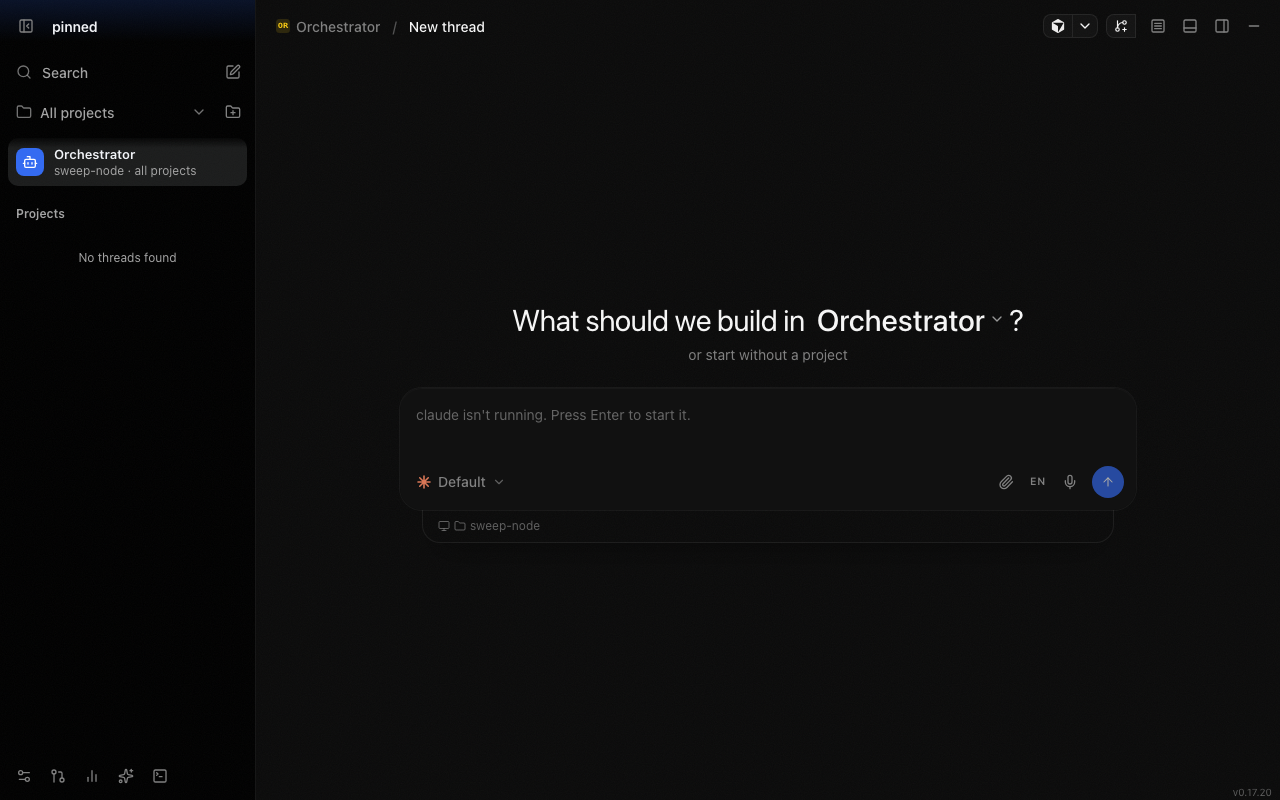
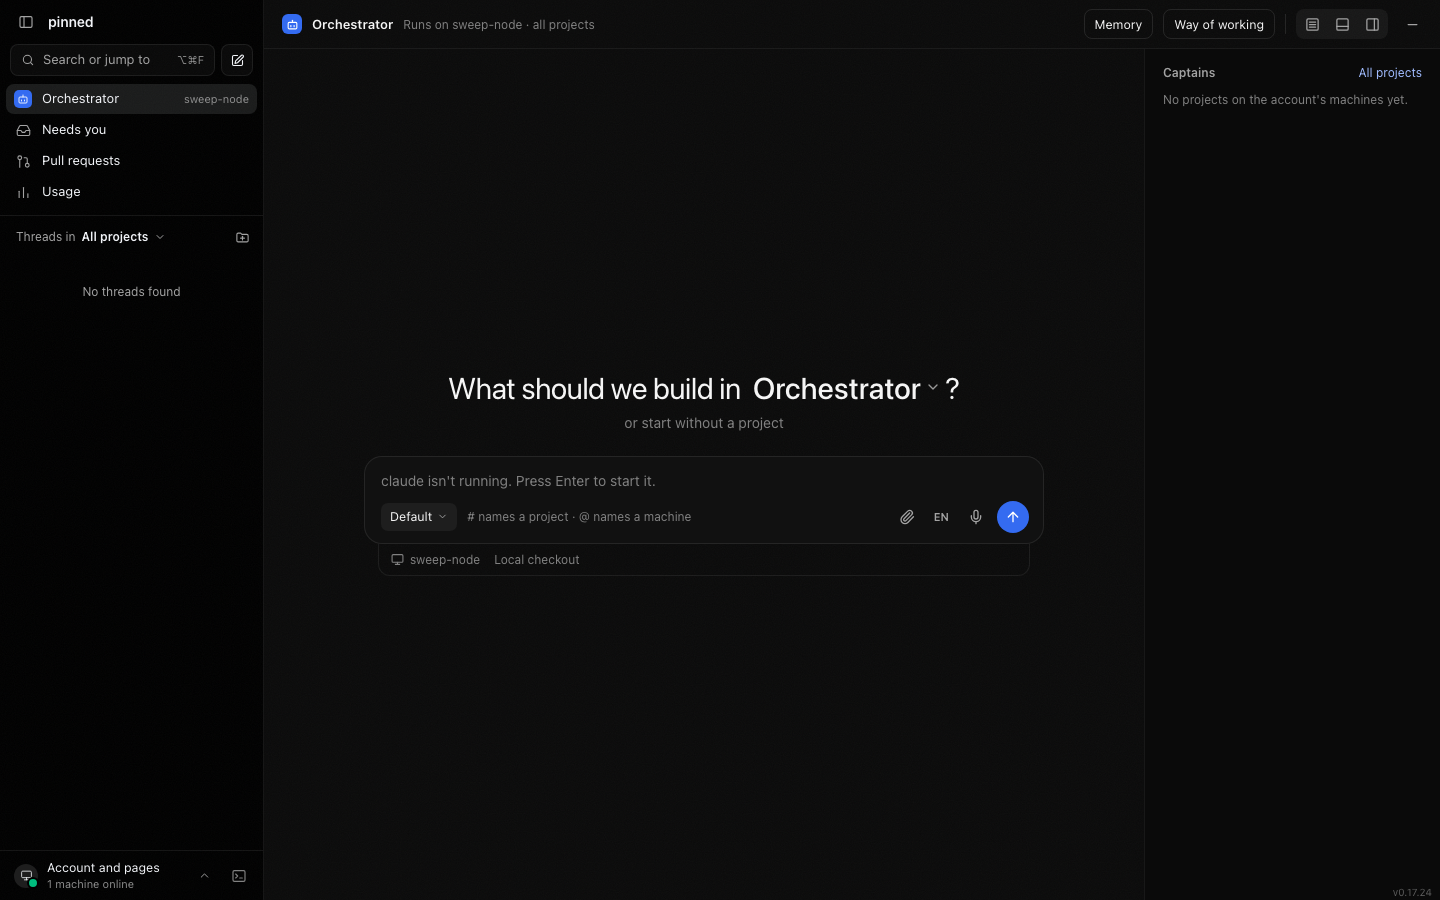
web sweep: run the last four sweeps on the new shell
global-chat, waiting-asks, session-marks and surface-approvals were moved
to the new markup but never run. Three failed on stale steps:

- global-chat read a field its state no longer has, expected a finished
  turn that asked to count as waiting (it is an offer since waitingKindOf
  and offerOf), and expected a project head to count workers only. The head
  counts every thread that works, as the Sidebar board draws it.
- session-marks tapped the desktop's sidebar toggle on a phone, where Back
  goes to Threads.
- surface-approvals closed Settings with a call no phone user has. It
  taps Settings' Back, which goes to More and its tab bar.

All four pass on a fresh stack. Their screenshots are the new design's.

diff --git a/scripts/web-sweep/global-chat.js b/scripts/web-sweep/global-chat.js
@@ -323,8 +323,8 @@ const sendText = (page, text) => page.evaluate((t) => {
       return view.status === "needs-input" && !view.interrupted;
     }, keys.pinned));
     s = await page.evaluate(state);
-    console.log("idle notice:", JSON.stringify({ head: s.waitingHead, rows: s.waitingRows }));
-    check(s.waitingHead === null && s.waitingRows.length === 0, `the idle notice waits on Felipe: ${JSON.stringify(s.waitingRows)}`);
+    console.log("idle notice:", JSON.stringify({ needsYou: s.needsYou }));
+    check(s.needsYou === "0", `the idle notice waits on Felipe: Needs you counts ${s.needsYou}`);
 
     await page.evaluate((k) => activate(tabByKey(k)), keys.site);
     await sendText(page, "/question");
@@ -339,26 +339,28 @@ const sendText = (page, text) => page.evaluate((t) => {
     check(!s.threadRows.includes(globalKey), "the global tab joined the thread list");
     check(await page.evaluate((k) => tabByKey(k).view.status === "needs-input" && !tabByKey(k).view.interrupted, keys.pinned), "the pinned Captain left its idle notice");
 
-    // A turn that ends asking the user still waits once Claude Code's idle notice follows it, as
-    // monorepo-photoshot's "PR #254" did, and so does a failure.
+    // A turn that ends asking the user blocks nobody: once Claude Code's idle notice follows it the
+    // question stays on the thread and lists as a quiet card, outside the count. A failure waits.
     await page.evaluate((k) => activate(tabByKey(k)), keys.pinned);
     await sendText(page, "asks");
-    await waitFor("the asked question", () => page.evaluate(() => document.querySelector('#side-nav [data-nav="needs-you"] .count').textContent === "2"));
+    await waitFor("the asked question", () => page.evaluate((k) => tabByKey(k).view.question === "Should I cut the release now?", keys.pinned));
     await waitFor("the idle notice after the question", () => page.evaluate((k) => tabByKey(k).view.status === "needs-input", keys.pinned));
     const asked = await page.evaluate((k) => tabByKey(k).view, keys.pinned);
     console.log("asked:", JSON.stringify({ status: asked.status, interrupted: asked.interrupted ?? false, message: asked.message, question: asked.question }));
     check(!asked.interrupted && asked.question === "Should I cut the release now?", "the pinned Captain's question did not survive its idle notice");
-    check(await page.evaluate(() => document.querySelector('#side-nav [data-nav="needs-you"] .count').textContent === "2"), "the idle notice took the question off the list");
+    check(await page.evaluate(() => document.querySelector('#side-nav [data-nav="needs-you"] .count').textContent === "1"), "a finished turn that asked joined the count");
     await page.evaluate((k) => activate(tabByKey(k)), keys.api);
     await sendText(page, "spent");
-    await waitFor("the failure", () => page.evaluate(() => document.querySelector('#side-nav [data-nav="needs-you"] .count').textContent === "3"));
+    await waitFor("the failure", () => page.evaluate(() => document.querySelector('#side-nav [data-nav="needs-you"] .count').textContent === "2"));
     await page.click('#side-nav [data-nav="needs-you"]');
-    await waitFor("three cards", () => page.evaluate(() => document.querySelectorAll('#page-view .ny-card:not([data-kind="offer"], [data-kind="review"])').length === 3));
+    await waitFor("two cards", () => page.evaluate(() => document.querySelectorAll('#page-view .ny-card:not([data-kind="offer"], [data-kind="review"])').length === 2));
     s = await page.evaluate(state);
     console.log("waiting:", JSON.stringify({ needsYou: s.needsYou, rows: s.waitingRows }));
-    check(s.needsYou === "3", `the Needs you row counts ${s.needsYou}`);
+    check(s.needsYou === "2", `the Needs you row counts ${s.needsYou}`);
     const kinds = await page.evaluate(() => [...document.querySelectorAll('#page-view .ny-card:not([data-kind="offer"], [data-kind="review"])')].map((r) => `${r.dataset.kind} ${r.querySelector(".ny-where").textContent.split(" · ")[0]}`).sort());
-    check(JSON.stringify(kinds) === JSON.stringify(["failed api", "question pinned", "question site"]), `rows: ${JSON.stringify(kinds)}`);
+    check(JSON.stringify(kinds) === JSON.stringify(["failed api", "question site"]), `rows: ${JSON.stringify(kinds)}`);
+    const offer = await page.evaluate((k) => document.querySelector(`#page-view .ny-card[data-kind="offer"][data-key="thread:${k}"] .ny-sub`)?.textContent ?? null, keys.pinned);
+    check(offer === "Asked · Should I cut the release now?", `the pinned Captain's quiet card: ${offer}`);
     await page.screenshot(path.join(SCREENS, "global-chat-waiting.png"));
 
     // Needs you answers a question on its card; a failure's card opens its thread.
@@ -416,7 +418,8 @@ const sendText = (page, text) => page.evaluate((t) => {
     check(await page.evaluate((k) => !tabByKey(k).view.question, keys.pinned), "the pinned Captain kept its question after the next turn");
 
     // The sidebar tree: the Needs you row with its count above the list, then each project with its
-    // Captain, the Captain's workers under it, and the project's plain threads.
+    // Captain, the Captain's workers under it, and the project's plain threads. A project's head
+    // counts every thread of it that works, so alpha reads 2 running: its Captain and one worker.
     await page.size(1440, 900);
     const alpha = fs.realpathSync(path.join(WORK, "alpha"));
     const beta = fs.realpathSync(path.join(WORK, "beta"));
@@ -438,7 +441,7 @@ const sendText = (page, text) => page.evaluate((t) => {
     const asks = await page.evaluate(() => [...document.querySelectorAll('#page-view .ny-card:not([data-kind="offer"], [data-kind="review"])')].map((c) => c.dataset.key.replace(/^thread:/, "")));
     check(asks.length === 2 && asks.includes(tree.waiting), `waiting cards: ${JSON.stringify(asks)}`);
     check(tokens[0].startsWith("project "), `the list does not start with a project: ${JSON.stringify(tokens.slice(0, 2))}`);
-    const alphaAt = tokens.indexOf("project alpha 1 queued 1 running sweep-node");
+    const alphaAt = tokens.indexOf("project alpha 1 queued 2 running sweep-node");
     check(alphaAt >= 0, `alpha's head: ${JSON.stringify(tokens.filter((t) => t.startsWith("project ")))}`);
     check(JSON.stringify(tokens.slice(alphaAt + 1, alphaAt + 5)) === JSON.stringify([tree.captain, `  ${tree.w1}`, `  ${tree.w2}`, tree.plain]),
       `alpha's Captain, its two workers under it, then the plain thread: ${JSON.stringify(tokens.slice(alphaAt + 1, alphaAt + 5))}`);
@@ -474,7 +477,7 @@ const sendText = (page, text) => page.evaluate((t) => {
     await waitFor("alpha's head on the phone", () => small.evaluate(() => [...document.querySelectorAll(".project-head")].some((h) => /queued/.test(h.innerText))));
     const phoneTokens = await small.evaluate(sidebarTokens);
     const badge = await small.evaluate(() => document.querySelector('#phone-tabs [data-phone-tab="needs-you"] .badge:not([hidden])')?.textContent ?? "0");
-    check(phoneTokens.includes("project alpha 1 queued 1 running sweep-node") && badge === "2", `phone sidebar: ${JSON.stringify(phoneTokens)}, Needs you ${badge}`);
+    check(phoneTokens.includes("project alpha 1 queued 2 running sweep-node") && badge === "2", `phone sidebar: ${JSON.stringify(phoneTokens)}, Needs you ${badge}`);
     await small.screenshot(path.join(SCREENS, "sidebar-tree-phone.png"));
     await small.evaluate(() => document.querySelector(".project-head").scrollIntoView());
     await small.screenshot(path.join(SCREENS, "sidebar-tree-phone-projects.png"));

diff --git a/scripts/web-sweep/surface-approvals.js b/scripts/web-sweep/surface-approvals.js
@@ -166,7 +166,8 @@ async function approveBoth(view, agent, shot, name) {
   await unlock(view, shot);
   await waitFor(`${shot}: the account the approval added`, () => view.evaluate((n) => document.getElementById("account-list")?.innerText.includes(n), name));
   check(await view.evaluate(() => !document.getElementById("agent-asking")), `${shot}: the form forgets the request once it ran`);
-  await view.evaluate(() => settingsOpen() && toggleSettings());
+  // Settings' Back is the way out: to the app on a desktop, to More and its tab bar on a phone.
+  if (await view.evaluate(() => settingsOpen())) await view.click("#settings-back");
   await openWaiting(view);
   await waitFor(`${shot}: pair_code still waits`, async () => (await asksShown(view)).join(" | ") === "Pair a machine");
   await view.click(`#page-view .ny-card[data-confirmation="${pair.id}"] [data-agent=approve]`);

diff --git a/scripts/web-sweep/session-marks.js b/scripts/web-sweep/session-marks.js
@@ -328,7 +328,7 @@ const errors = [];
       await B.tap(row(t1.key));
       await waitFor("the phone's sidebar to close on the tapped thread", () => B.evaluate(() => document.body.dataset.sidebar === "closed"));
     }
-    await B.tap("#chat-sidebar-toggle");
+    await B.tap("#chat-back");
     await waitFor("the phone's sidebar", () => B.evaluate(() => document.body.dataset.sidebar === "open" && !document.body.classList.contains("sidebar-animating")));
     check(await cardTitle(B, t1.key) === "Fix login" && await B.evaluate((s) => !!document.querySelector(`${s} .pin`), row(t2.key)), "the phone lost the rename or the pin");
     await B.screenshot(path.join(SCREENS, "session-marks-phone.png"));
